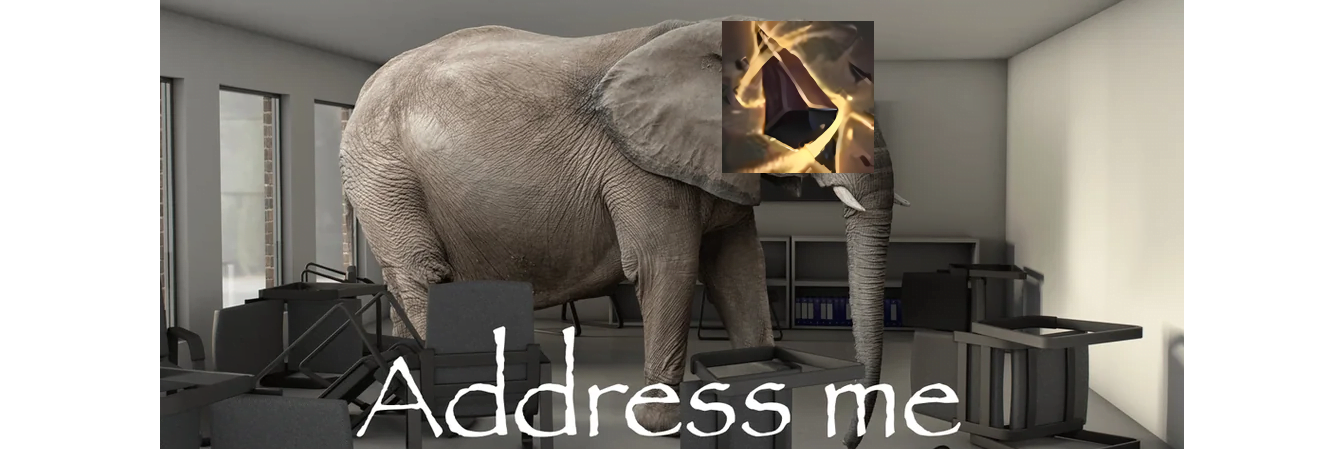
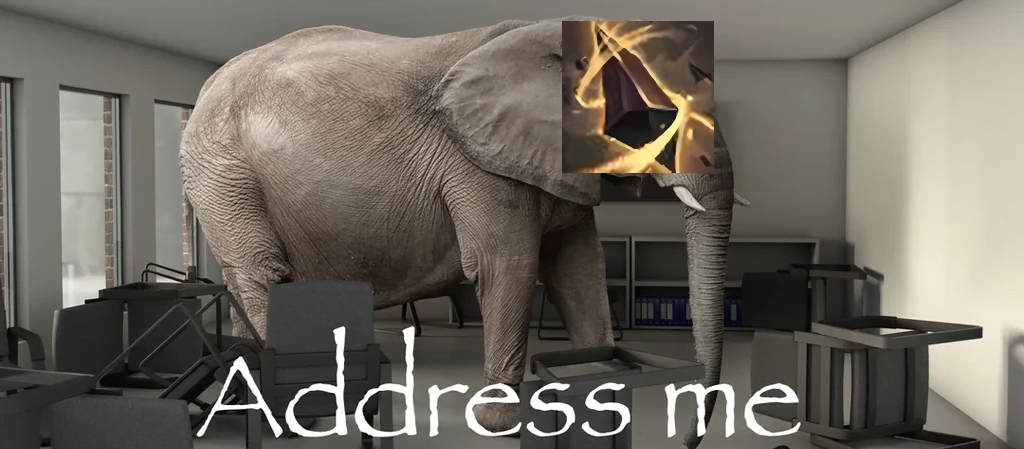
fixes

diff --git a/app/page.tsx b/app/page.tsx
@@ -3,14 +3,25 @@ import { sortPosts, allCoreContent, formatDate } from '../lib/content';
 import { CustomLink } from '../components/CustomLink';
 import { RandomLyrics } from '../components/RandomLyrics.';
 import { Tag } from '../components/Tag';
+import { Image } from '../components/Image';
 import siteMetadata from '../data/siteMetadata';
+import { localImageFile } from '../lib/mdx-plugins';
 import clsx from 'clsx';
+import sharp from 'sharp';
+import type { CSSProperties } from 'react';
 
 const MAX_DISPLAY = 10;
 
 export default async function Page() {
   const sortedPosts = sortPosts(allBlogs);
   const posts = allCoreContent(sortedPosts);
+  const bannerWidths = await Promise.all(
+    posts.slice(0, MAX_DISPLAY).map(async ({ images, includeImageInPreview }) => {
+      const file = includeImageInPreview ? localImageFile(images?.[0]) : null;
+
+      return file ? (await sharp(file).metadata()).width : undefined;
+    })
+  );
 
   return (
     <>
@@ -32,55 +43,50 @@ export default async function Page() {
           {posts
             .slice(0, MAX_DISPLAY)
             .map(
-              ({
-                slug,
-                date,
-                title,
-                summary,
-                tags,
-                lastmod,
-                images,
-                includeImageInPreview,
-                prefetch,
-              }) => {
+              (
+                {
+                  slug,
+                  date,
+                  title,
+                  summary,
+                  tags,
+                  lastmod,
+                  images,
+                  includeImageInPreview,
+                  prefetch,
+                },
+                index
+              ) => {
                 const image = images?.[0];
+                const bannerWidth = bannerWidths[index];
 
                 return (
                   <li
                     key={slug}
                     id={slug}
                     className={clsx(
-                      'relative py-10',
+                      'group @container relative overflow-hidden py-10',
                       includeImageInPreview
                         ? null
                         : 'opacity-80 transition-opacity duration-250 ease-in-out hover:opacity-100'
                     )}
                   >
-                    {includeImageInPreview ? (
-                      <style>
-                        {`
-                      #${slug}:before {
-                        content: "";
-                        position: absolute;
-                        top: 0;
-                        left: 0;
-                        width: 100%;
-                        height: 100%;
-                        background-image: url(${image});
-                        background-repeat: no-repeat;
-                        background-size: cover;
-                        background-position: center;
-                        filter: grayscale(25%);
-                        opacity: 0.15;
-                        transition: opacity 0.25s ease-in-out;
-                      }
-                      
-                      #${slug}:hover:before {
-                        filter: grayscale(0%);
-                        opacity: 0.25;
-                      }
-                      `}
-                      </style>
+                    {includeImageInPreview && image ? (
+                      <Image
+                        src={image}
+                        alt=""
+                        className={clsx(
+                          'pointer-events-none absolute top-1/2 left-1/2 min-h-full max-w-none min-w-full -translate-x-1/2 -translate-y-1/2 opacity-15 grayscale-25 transition-opacity duration-250 ease-in-out group-hover:opacity-25 group-hover:grayscale-0 xl:left-0 xl:w-full xl:translate-x-0 xl:object-cover',
+                          bannerWidth && 'blur-(--banner-blur)'
+                        )}
+                        style={
+                          bannerWidth
+                            ? ({
+                                '--banner-blur': `clamp(0px, (100cqw - ${bannerWidth}px) * 3 / ${bannerWidth}, 2px)`,
+                              } as CSSProperties)
+                            : undefined
+                        }
+                      />
                     ) : null}
                     <article className="relative mx-auto max-w-4xl px-2 xl:max-w-6xl">
                       <div className="space-y-2 xl:grid xl:grid-cols-4 xl:items-baseline xl:space-y-0">
@@ -159,7 +165,7 @@ export default async function Page() {
         </ul>
       </div>
       {posts.length > MAX_DISPLAY && (
-        <div className="flex justify-end px-2 text-base leading-6 font-medium">
+        <div className="mb-2 flex justify-end px-2 text-base leading-6 font-medium">
           <CustomLink
             href="/blog"
             className="text-primary-500 hover:text-primary-600 dark:hover:text-primary-400"

diff --git a/layouts/ListLayoutWithTags.tsx b/layouts/ListLayoutWithTags.tsx
@@ -8,6 +8,7 @@ import tagData from '../app/tag-data.json' with { type: 'json' };
 import { CustomLink } from '../components/CustomLink';
 import siteMetadata from '../data/siteMetadata';
 import { Tag } from '../components/Tag';
+import { Image } from '../components/Image';
 import clsx from 'clsx';
 
 interface PaginationProps {
@@ -17,45 +18,6 @@ interface PaginationProps {
 interface ListLayoutProps {
   posts: CoreContent<Blog>[];
   title: string;
-}
-
-function Pagination({ totalPages, currentPage }: PaginationProps) {
-  const pathname = usePathname();
-  const prevPage = currentPage - 1 > 0;
-  const nextPage = currentPage + 1 <= totalPages;
-
-  return (
-    <div className="space-y-2 pt-6 pb-8 md:space-y-5">
-      <nav className="flex justify-between">
-        {!prevPage && (
-          <button className="cursor-auto disabled:opacity-50" disabled={!prevPage}>
-            Previous
-          </button>
-        )}
-        {prevPage && (
-          <CustomLink
-            href={currentPage - 1 === 1 ? `${pathname}/` : `${pathname}/?page=${currentPage - 1}`}
-            rel="prev"
-          >
-            Previous
-          </CustomLink>
-        )}
-        <span>
-          {currentPage} of {totalPages}
-        </span>
-        {!nextPage && (
-          <button className="cursor-auto disabled:opacity-50" disabled={!nextPage}>
-            Next
-          </button>
-        )}
-        {nextPage && (
-          <CustomLink href={`${pathname}/?page=${currentPage + 1}`} rel="next">
-            Next
-          </CustomLink>
-        )}
-      </nav>
-    </div>
-  );
 }
 
 export function ListLayoutWithTags({ posts, title }: ListLayoutProps) {
@@ -129,37 +91,18 @@ export function ListLayoutWithTags({ posts, title }: ListLayoutProps) {
                     key={path}
                     id={slug}
                     className={clsx(
-                      'relative py-5',
+                      'group relative overflow-hidden py-5',
                       includeImageInPreview
                         ? null
                         : 'opacity-80 transition-opacity duration-250 ease-in-out hover:opacity-100'
                     )}
                   >
-                    {includeImageInPreview ? (
-                      <style>
-                        {`
-                      #${slug}:before {
-                        content: "";
-                        position: absolute;
-                        top: 0;
-                        left: 0;
-                        width: 100%;
-                        height: 100%;
-                        background-image: url(${image});
-                        background-repeat: no-repeat;
-                        background-size: cover;
-                        background-position: center;
-                        filter: grayscale(25%);
-                        opacity: 0.15;
-                        transition: opacity 0.25s ease-in-out;
-                      }
-                      
-                      #${slug}:hover:before {
-                        filter: grayscale(0%);
-                        opacity: 0.25;
-                      }
-                      `}
-                      </style>
+                    {includeImageInPreview && image ? (
+                      <Image
+                        src={image}
+                        alt=""
+                        className="pointer-events-none absolute top-1/2 left-1/2 min-h-full max-w-none min-w-full -translate-x-1/2 -translate-y-1/2 opacity-15 grayscale-25 transition-opacity duration-250 ease-in-out group-hover:opacity-25 group-hover:grayscale-0"
+                      />
                     ) : null}
                     <article className="relative mx-auto max-w-4xl px-2 xl:max-w-6xl">
                       <dl>

diff --git a/content-collections.ts b/content-collections.ts
@@ -130,20 +130,6 @@ async function structuredData(
   };
 }
 
-function titleWithUpdate(title: string, date: string, lastmod?: string) {
-  if (lastmod) {
-    const updated = new Date(lastmod);
-    const published = new Date(date);
-
-    if (updated.getTime() - published.getTime() > 1000 * 60 * 60 * 24) {
-      const [, month, day] = updated.toDateString().split(' ');
-      return `[Updated ${month} ${day.startsWith('0') ? day.slice(1) : day}] ${title}`;
-    }
-  }
-
-  return title;
-}
-
 const blogs = defineCollection({
   name: 'blogs',
   typeName: 'Blog',
@@ -171,7 +157,6 @@ const blogs = defineCollection({
 
     return {
       ...doc,
-      title: titleWithUpdate(doc.title, doc.date, doc.lastmod),
       mdx,
       toc,
       slug: doc._meta.path,

diff --git a/app/layout.tsx b/app/layout.tsx
@@ -116,7 +116,7 @@ export default function RootLayout({ children }: { children: ReactNode }) {
               <Header />
               <div className="grid flex-1 grid-cols-1 grid-rows-[1fr] md:grid-cols-[1fr_min(96rem,100%)_1fr]">
                 <div aria-hidden="true" className={`${railClassName} col-start-1`} />
-                <main className="col-start-1 row-start-1 flex flex-col space-y-6 p-6 md:col-start-2">
+                <main className="col-start-1 row-start-1 flex flex-col space-y-6 md:col-start-2">
                   {children}
                 </main>
                 <div aria-hidden="true" className={`${railClassName} col-start-3`} />

diff --git a/layouts/AuthorLayout.tsx b/layouts/AuthorLayout.tsx
@@ -12,7 +12,7 @@ export default function AuthorLayout({ children, content }: Props) {
   const { name, occupation, company, bluesky, github } = content;
 
   return (
-    <div className="mx-auto max-w-4xl px-4 xl:max-w-6xl">
+    <div className="mx-auto px-4">
       <div className="divide-y divide-gray-200 dark:divide-gray-700">
         <div className="space-y-2 pt-6 pb-8 md:space-y-5">
           <h1 className="text-3xl leading-9 font-extrabold tracking-tight text-gray-900 sm:text-4xl sm:leading-10 md:text-6xl md:leading-14 dark:text-gray-100">

diff --git a/components/Footer.tsx b/components/Footer.tsx
@@ -11,7 +11,7 @@ export function Footer() {
             href={siteMetadata.siteRepo}
             className="hover:text-primary-500 dark:hover:text-primary-500 text-gray-500 underline underline-offset-4 dark:text-gray-400"
           >
-            <span>View source</span>
+            <span>View Source</span>
           </CustomLink>
 
           <span className="px-1 text-gray-400 dark:text-gray-500">-</span>

diff --git a/app/movies/page.tsx b/app/movies/page.tsx
@@ -178,7 +178,7 @@ export default async function MoviesPage() {
         const movies = sortByYearDesc(byState[state]);
 
         return (
-          <section key={state} className="mx-auto" aria-labelledby={`${state}-title`}>
+          <section key={state} aria-labelledby={`${state}-title`}>
             <div className={`p-8 ${stateColor[state]}`}>
               <h2
                 id={`${state}-title`}

diff --git a/app/series/page.tsx b/app/series/page.tsx
@@ -172,7 +172,7 @@ export default async function SeriesPage() {
         const series = sortByYearDesc(byState[state]);
 
         return (
-          <section key={state} className="mx-auto" aria-labelledby={`${state}-title`}>
+          <section key={state} aria-labelledby={`${state}-title`}>
             <div className={`p-8 ${stateColor[state]}`}>
               <h2
                 id={`${state}-title`}

diff --git a/lib/mdx-plugins.ts b/lib/mdx-plugins.ts
@@ -91,7 +91,7 @@ export function rehypeSectionize() {
 
 type JsxAttribute = { type: string; name?: string; value?: unknown };
 
-function localImageFile(url: unknown): string | null {
+export function localImageFile(url: unknown): string | null {
   if (typeof url !== 'string' || !url.startsWith('/')) {
     return null;
   }

diff --git a/app/music/page.tsx b/app/music/page.tsx
@@ -27,7 +27,7 @@ const filteredData = data
       return acquired;
     }
 
-    const artist = b.artist.localeCompare(b.artist);
+    const artist = b.artist.localeCompare(a.artist);
 
     if (artist !== 0) {
       return artist;
